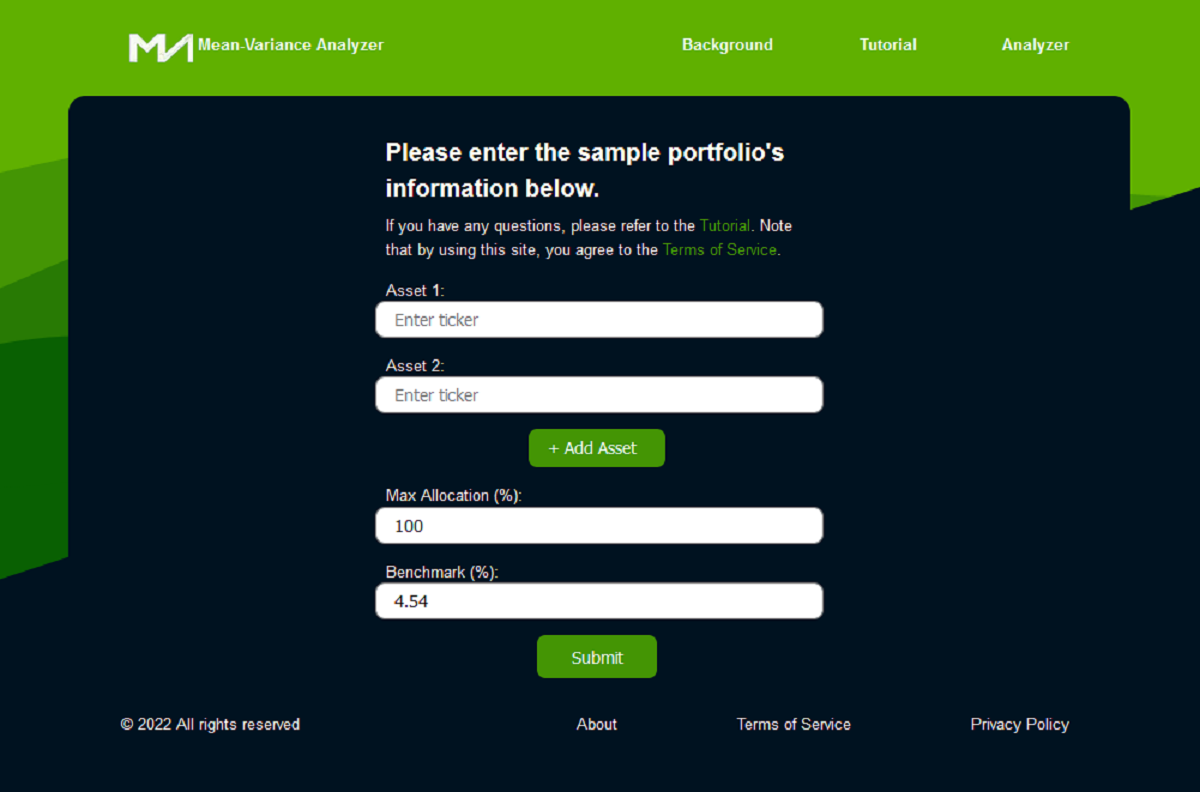
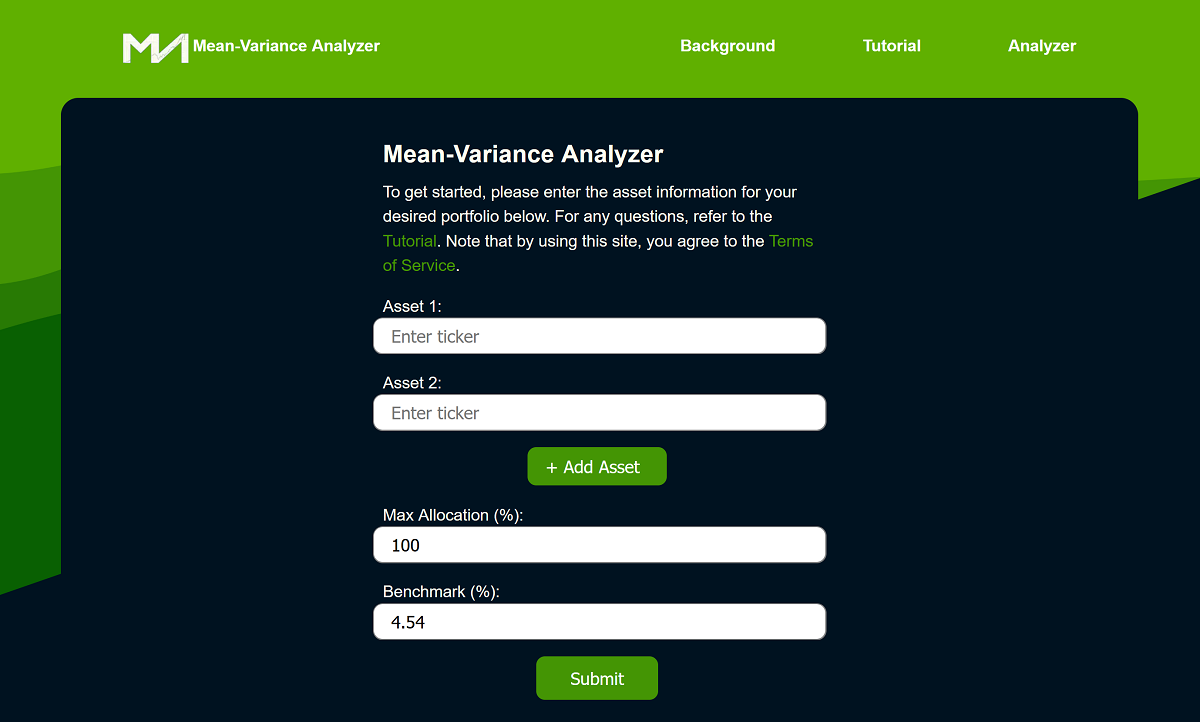
Removes white background from pie chart in optimizer component

diff --git a/src/utils/index.js b/src/utils/index.js
@@ -676,6 +676,11 @@ const getPieChartOptions = () => {
           },
         },
       },
+      legend: {
+        labels: {
+          color: "white",
+        },
+      },
     },
   };
 };
@@ -707,9 +712,9 @@ const getSortedMaxSharpeRatioPflWeights = (
 const getPieChartData = (tickers, sortedMaxSharpeRatioPflWeights) => {
   const pieChartColors = tickers.map(
     (ticker) =>
-      `rgba(${Math.floor(255 * Math.random())}, ${Math.floor(
-        255 * Math.random()
-      )}, ${Math.floor(255 * Math.random())}`
+      `rgba(${Math.floor(255 * (0.5 + Math.random() / 2))}, ${Math.floor(
+        255 * (0.5 + Math.random() / 2)
+      )}, ${Math.floor(255 * (0.5 + Math.random() / 2))}`
   );
 
   return {
@@ -718,7 +723,7 @@ const getPieChartData = (tickers, sortedMaxSharpeRatioPflWeights) => {
       {
         label: "Portfolio Allocations for Maximum Sharpe Ratio",
         data: sortedMaxSharpeRatioPflWeights.map((arr) => arr[1]),
-        backgroundColor: pieChartColors.map((color) => color + ", 0.2)"),
+        backgroundColor: pieChartColors.map((color) => color + ", 0.7)"),
         borderColor: pieChartColors.map((color) => color + ", 1)"),
         borderWidth: 1,
       },

diff --git a/src/pages/analyzer.js b/src/pages/analyzer.js
@@ -49,12 +49,11 @@ const AnalyzerPage = () => {
   return (
     <Layout pageTitle="Analyzer">
       <div className={styles.container}>
-        <h2 className={`${styles.headerText}`}>
-          Please enter the sample portfolio's information below.
-        </h2>
+        <h2 className={`${styles.headerText}`}>Mean-Variance Analyzer</h2>
 
         <p className={`${styles.headerText}`}>
-          If you have any questions, please refer to the{" "}
+          To get started, please enter the asset information for your desired
+          portfolio below. For any questions, refer to the{" "}
           <Link to="/tutorial">Tutorial</Link>. Note that by using this site,
           you agree to the <Link to="/terms">Terms of Service</Link>.
         </p>

diff --git a/src/components/optimizer.module.css b/src/components/optimizer.module.css
@@ -2,9 +2,9 @@
   background-color: white;
   border-radius: 1rem;
   margin-bottom: 2rem;
+  margin-top: 1rem;
 }
 .pie-chart-element {
-  background-color: white;
   border-radius: 1rem;
 }
 
@@ -26,6 +26,9 @@
   .pie-chart-info {
     margin-left: 5%;
   }
+  .pie-chart-info h2 {
+    margin-top: 0;
+  }
 }
 
 @media screen and (max-width: 749px) {
@@ -45,5 +48,8 @@
     text-align: left;
     margin-left: 7%;
     padding-bottom: 2rem;
+  }
+  .pie-chart-info h2 {
+    margin-top: 1rem;
   }
 }

diff --git a/src/components/optimizer.js b/src/components/optimizer.js
@@ -23,6 +23,7 @@ const Optimizer = ({
   children,
 }) => {
   ChartJS.register(...registerables);
+  // ChartJS.defaults.color = "#fff";
   return (
     <>
       <div className={styles.scatterPlot}>
